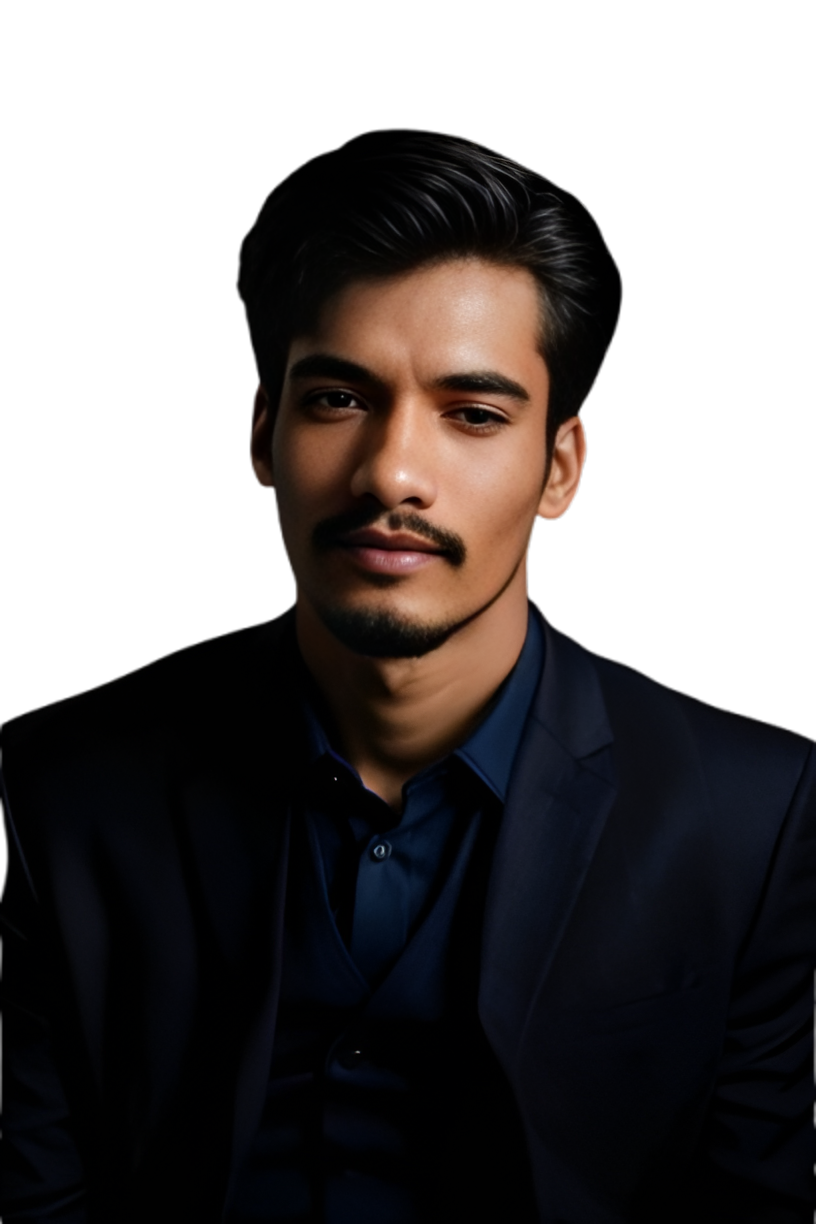
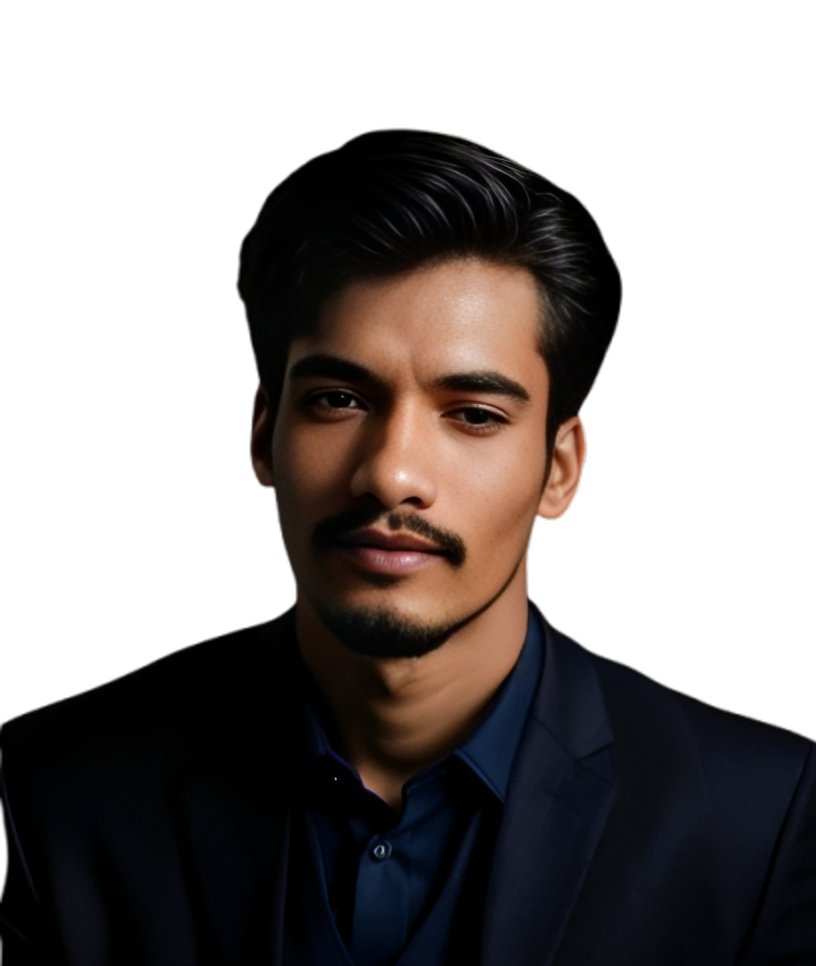
from all side make it blur picture pic mostly from bottom and left right

diff --git a/src/app/globals.css b/src/app/globals.css
@@ -150,6 +150,14 @@
     position: relative;
     z-index: 1;
   }
+  
+  .hero-image-effect {
+    mask-image: linear-gradient(to bottom, black 60%, transparent 100%);
+    @apply filter grayscale-[50%] contrast-125 brightness-90 dark:grayscale-[30%] dark:brightness-100 transition-all duration-300;
+  }
+  .hero-image-effect:hover {
+    @apply grayscale-0 contrast-100 brightness-100;
+  }
 
 }
 

diff --git a/src/components/sections/hero.tsx b/src/components/sections/hero.tsx
@@ -51,7 +51,7 @@ export function Hero() {
                 data-ai-hint={profileImage.imageHint}
                 width={400}
                 height={400}
-                className="rounded-lg object-cover w-full h-auto"
+                className="rounded-lg object-cover w-full h-auto hero-image-effect"
                 priority
               />
             </div>
